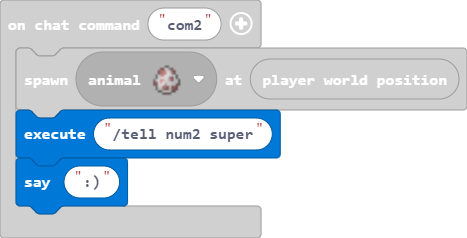
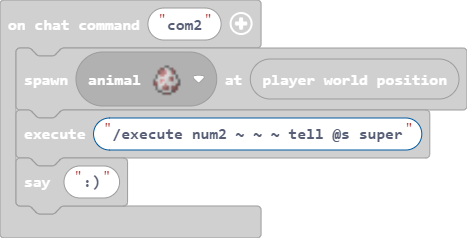
execute num2 ~ ~ ~ tell @s super

Changed region(s): [[0.03, 0.4412, 0.9293, 0.9118]]

diff --git a/main.ts b/main.ts
@@ -1,7 +1,7 @@
 player.onChat("com2", function () {
     mobs.spawn(SHEEP, player.position())
     player.execute(
-    "/tell num2 super"
+    "/execute num2 ~ ~ ~ tell @s super"
     )
     player.say(":)")
 })
